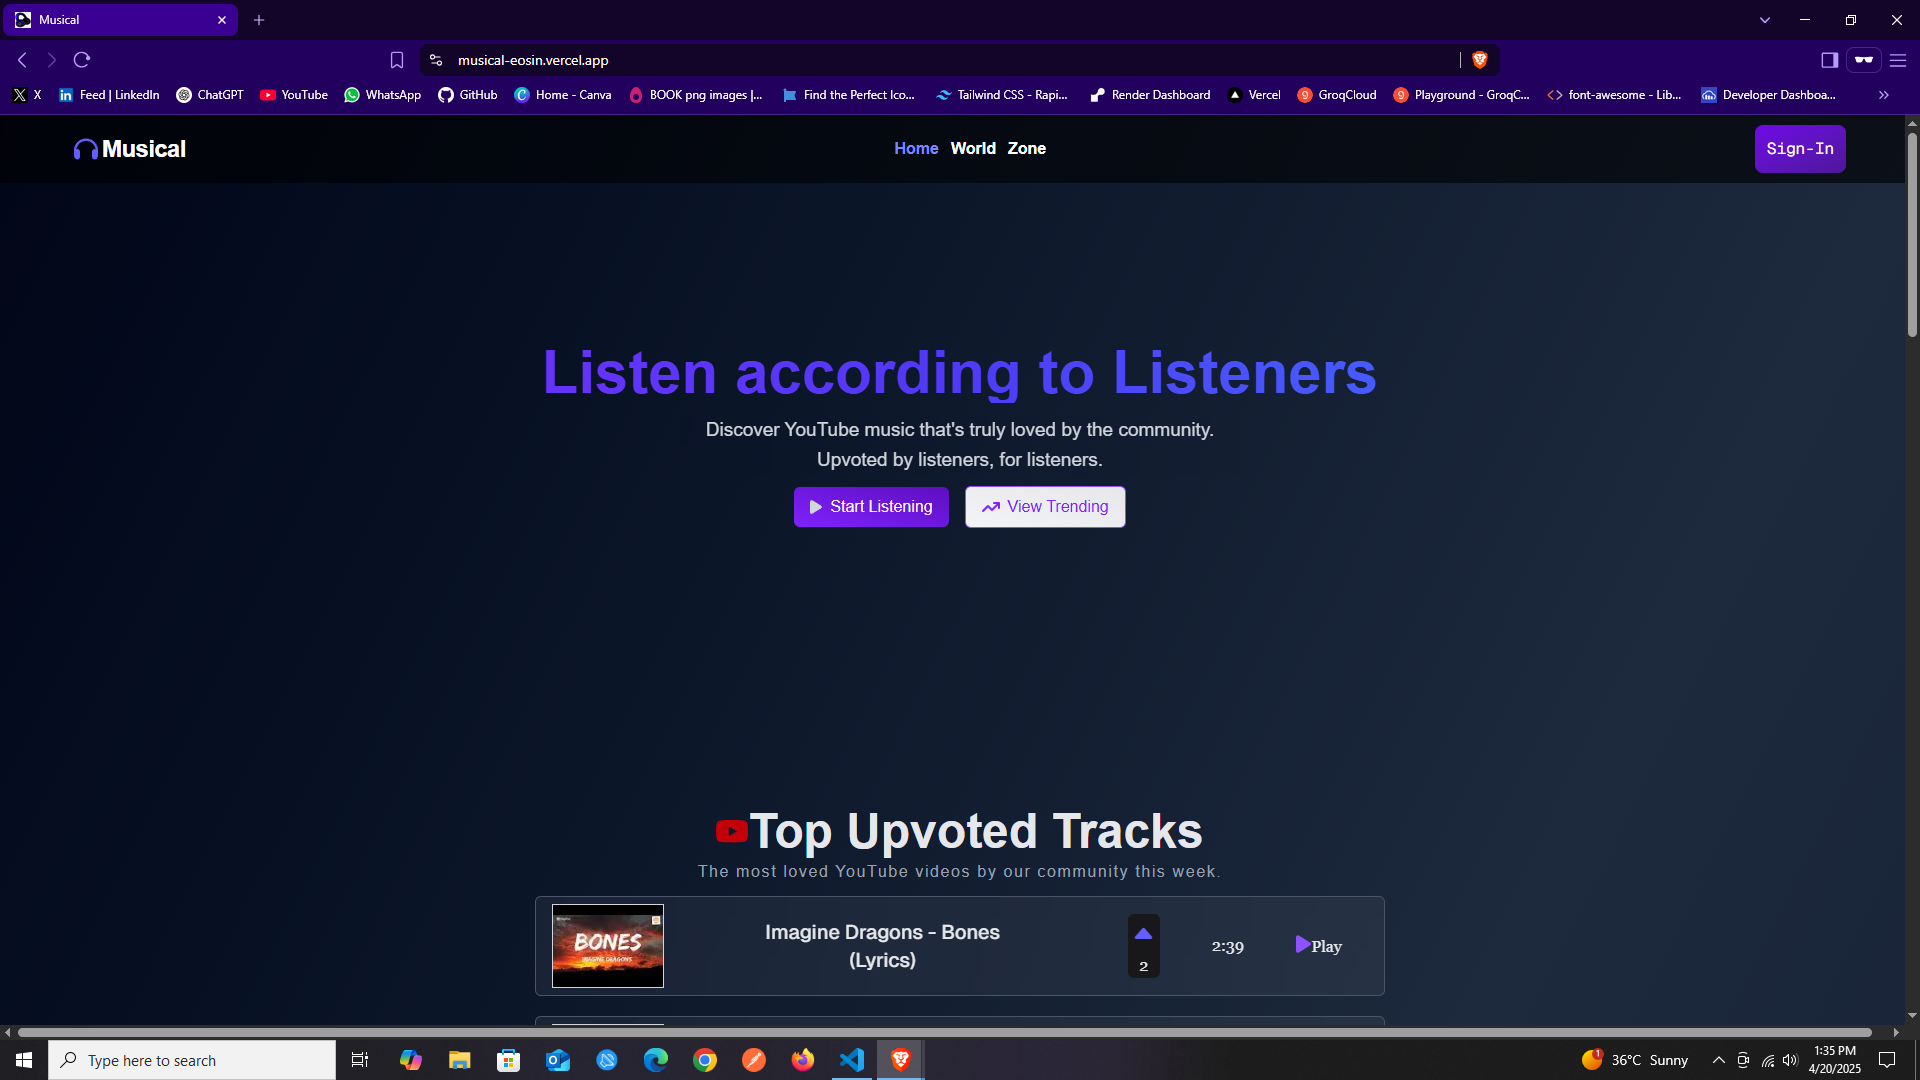
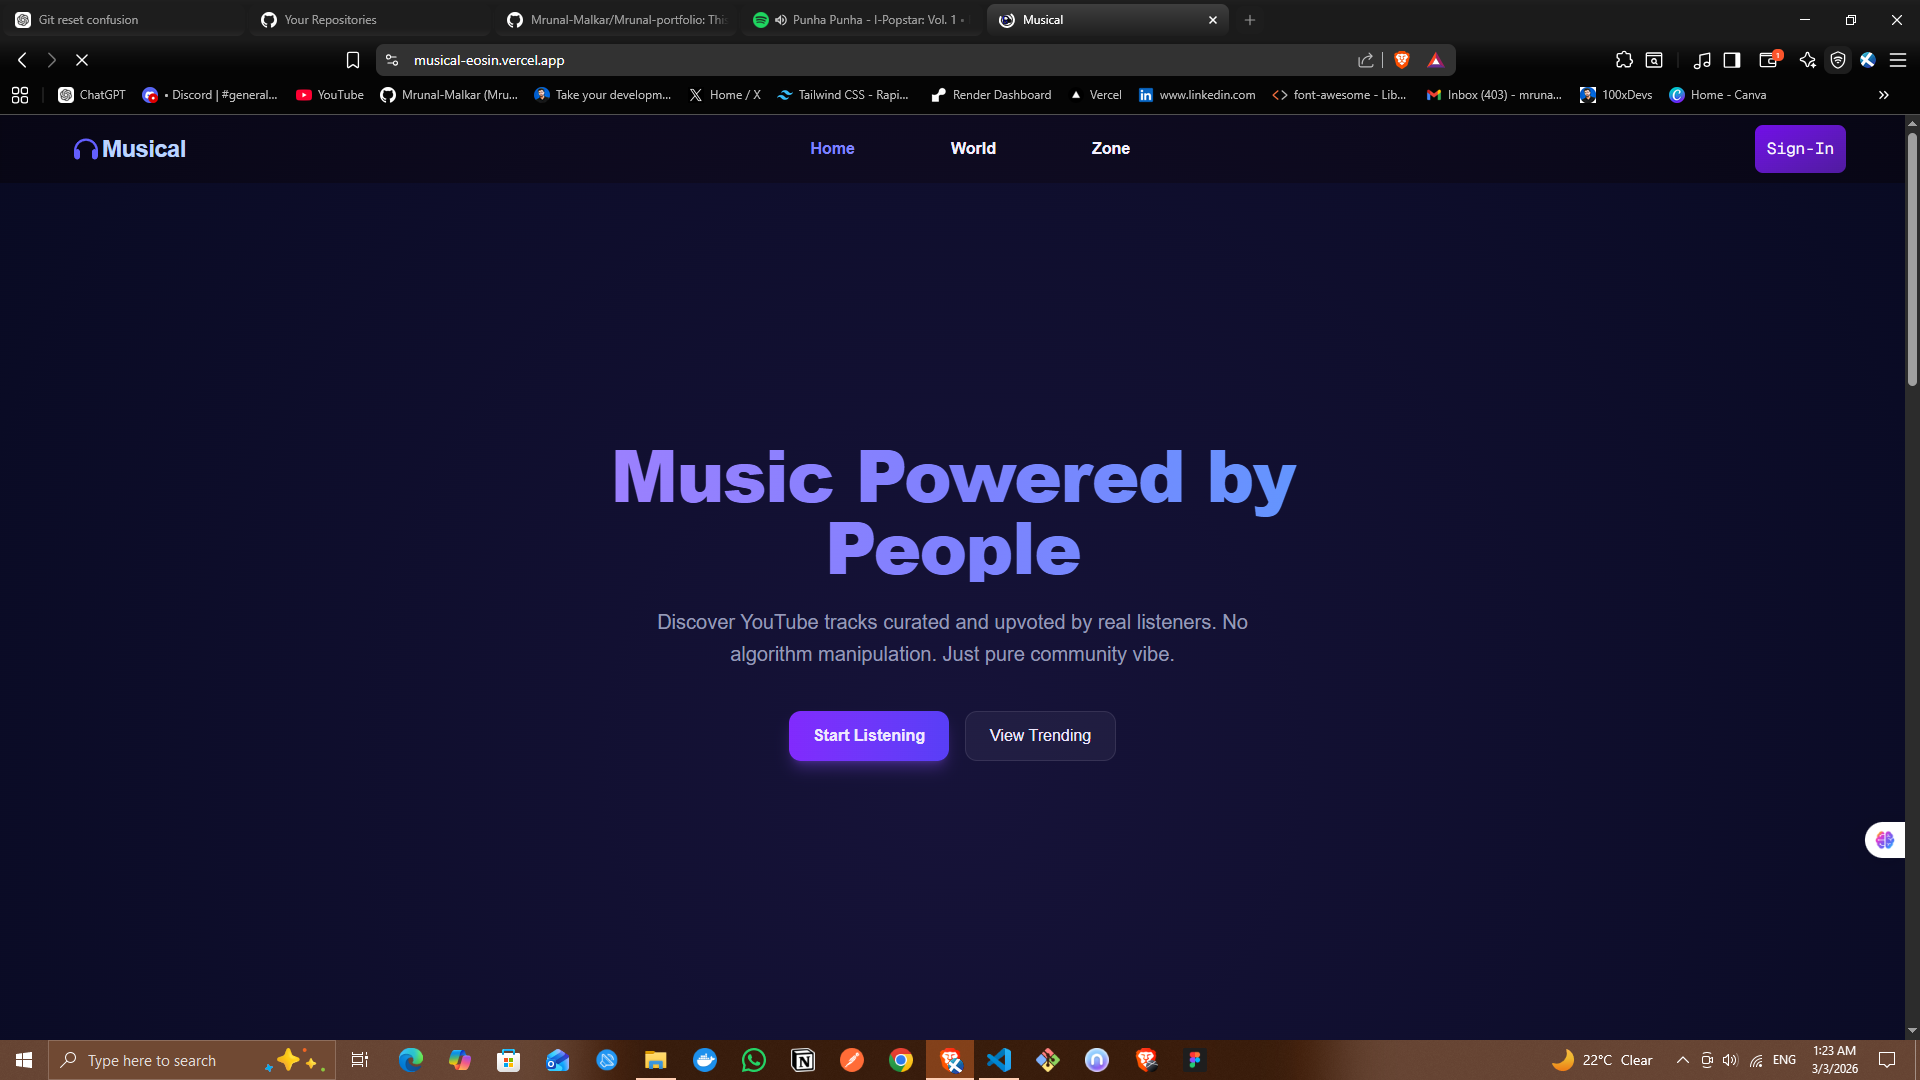
refactor: update about me and remove one section from home page

diff --git a/src/pages/about.tsx b/src/pages/about.tsx
@@ -4,6 +4,7 @@ import { toast, ToastContainer } from "react-toastify";
 import emailjs from "@emailjs/browser";
 import Collaborate from "../components/collaborate";
 import { motion } from "motion/react";
+import { LongAboutMe } from "../utils/aboutMe";
 
 const About = () => {
   const [email, setEmail] = useState("");
@@ -64,43 +65,7 @@ const About = () => {
           </div>
           <div className="w-full overflow-hidden">
             <div className="w-full tracking-wide font-semisolid bg-[#272829] text-gray-300 rounded-2xl text-2xl xl:p-6 p-4">
-              <p className="mb-4">
-                I'm a 17-year-old passionate developer with over 8 months of
-                self-driven learning fueled by curiosity. Along this journey,
-                I've built several high-quality projects. My curiosity led me to
-                explore fields like video editing, creative writing, 3D
-                animation using Blender, and even trying my hand at being a
-                faceless YouTuber. But nothing clicked like coding did.
-              </p>
-              <p className="mb-4">
-                I'm also an avid reader, and some of the books that have shaped
-                my mindset include:
-              </p>
-              <ul className="list-disc list-inside text-lg mb-4 font-medium flex flex-col gap-y-4">
-                <li>
-                  <strong>Atomic Habits</strong> – James Clear
-                </li>
-                <li>
-                  <strong>Think and Grow Rich</strong> – Napoleon Hill
-                </li>
-                <li>
-                  <strong>The Power of Your Subconscious Mind</strong> – Joseph
-                  Murphy
-                </li>
-                <li>
-                  <strong>Zero to One</strong> – Peter Thiel
-                </li>
-                <li>
-                  <strong>Rich Dad Poor Dad</strong> – Robert Kiyosaki
-                </li>
-              </ul>
-              <p className="mb-4">
-                These books have helped me level up mentally and gain valuable
-                insights. My ambition is to create something that will
-                positively impact the world. Becoming a full-stack developer is
-                my first and an important step on that path. Want to see if I’m
-                capable of working with you? Let’s catch up on a call!
-              </p>
+             {LongAboutMe}
             </div>
             <motion.div
             initial={{ opacity: 0, x: 0, y:-200 }}

diff --git a/src/pages/home.tsx b/src/pages/home.tsx
@@ -4,6 +4,7 @@ import ProjectComponent from "../components/projects";
 import { FaArrowRightLong } from "react-icons/fa6";
 import { useNavigate } from "react-router";
 import { SiExpress } from "react-icons/si";
+import { shortAboutMe } from "../utils/aboutMe";
 
 
 const Home = () => {
@@ -24,23 +25,21 @@ const Home = () => {
             </div>
             <div className="w-full flex justify-center xl:justify-start xl:block">
               <div className="text-lg text-center text-[#D9D9D9] max-w-2xl xl:text-start font-semibold ">
-                I am a 17y/o full stack developer with approx 8 months of
-                self-learning experience, driven by the uncountable no. of
-                possibilities code brings into life!
+                {shortAboutMe}
               </div>
             </div>
           </div>
           <div className="w-full flex flex-col sm:items-center xl:items-start align-middle gap-y-8">
-            <div className="flex self-center xl:self-start sm:flex-row gap-x-4 flex-col w-4/6 justify-around">
+            {/* <div className="flex self-center xl:self-start sm:flex-row gap-x-4 flex-col w-4/6 justify-around">
               <div className="flex flex-col  xl:items-start items-center">
-                <h1 className="text-7xl font-bold text-white">+20</h1>
+                <h1 className="text-7xl font-bold text-white">+6</h1>
                 <div className="flex flex-col text-gray-300 text-lg font-mono tracking-tighter items-center w-full">
                   <p>Projects</p>
                   <p>Made!</p>
                 </div>
               </div>
               <div className="flex flex-col  xl:items-start items-center">
-                <h1 className="text-7xl font-bold text-white">+800</h1>
+                <h1 className="text-7xl font-bold text-white">+900</h1>
                 <div className="flex flex-col text-lg text-gray-300 font-mono tracking-tighter items-center w-full">
                   <p>Hours of</p>
                   <p>dedicated learning!</p>
@@ -53,7 +52,7 @@ const Home = () => {
                   <p>Learning!</p>
                 </div>
               </div>
-            </div>
+            </div> */}
             <div className="w-full flex justify-center font-semibold text-md xl:justify-start gap-x-4">
               <button 
               onClick={()=>navigate("/about")}

diff --git a/src/utils/aboutMe.ts b/src/utils/aboutMe.ts
@@ -1,0 +1,3 @@
+export const shortAboutMe="I am 18y/o full stack developer with over 1.5 year of coding experience, I like to code,I like to read books and I love to think and write."
+
+export const LongAboutMe=("I am 18y/o full stack developer with over 1.5 year of coding experience, I am currently learning web3 and passionate about business and entrepreneurship,I read books which excite me, mainly around the topics of self-development and freedom. My goal is to create as much +impact as I can with everything I do. I am currently looking for a internship or job opportunity and will love to leverage my skills.")
